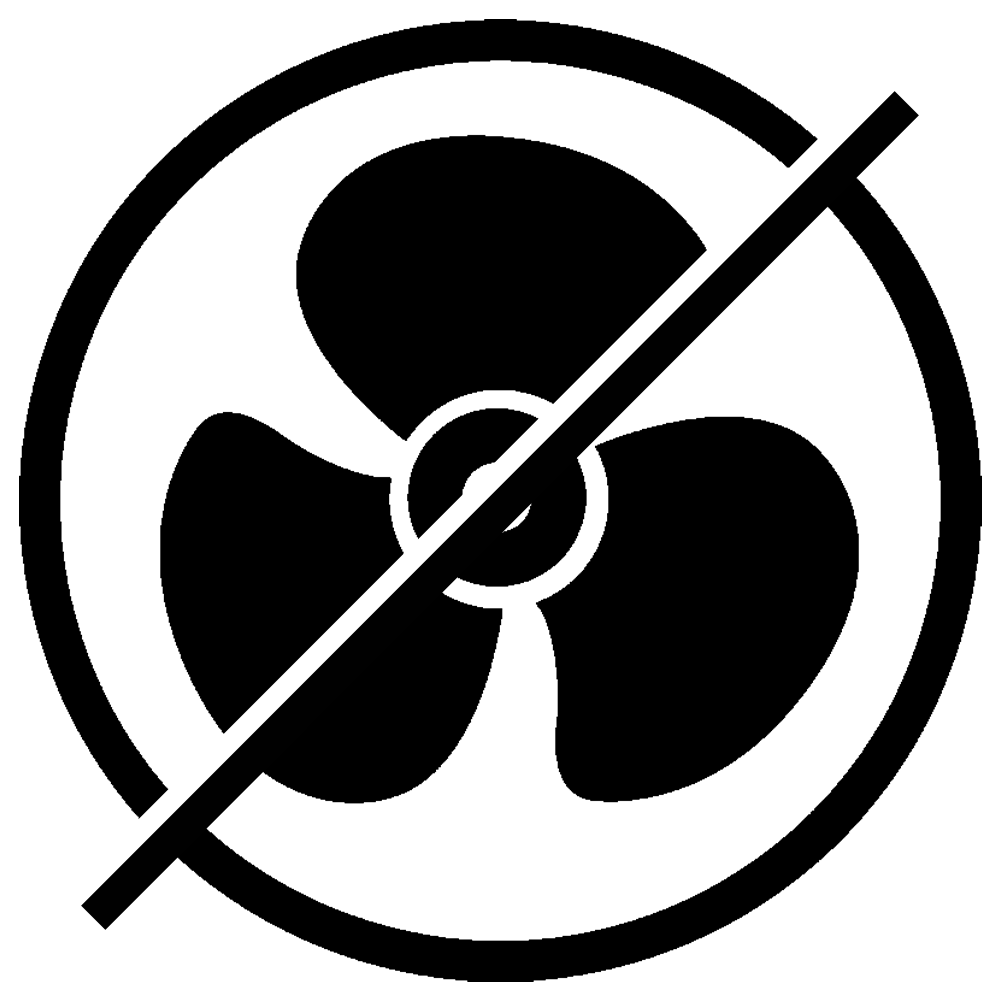
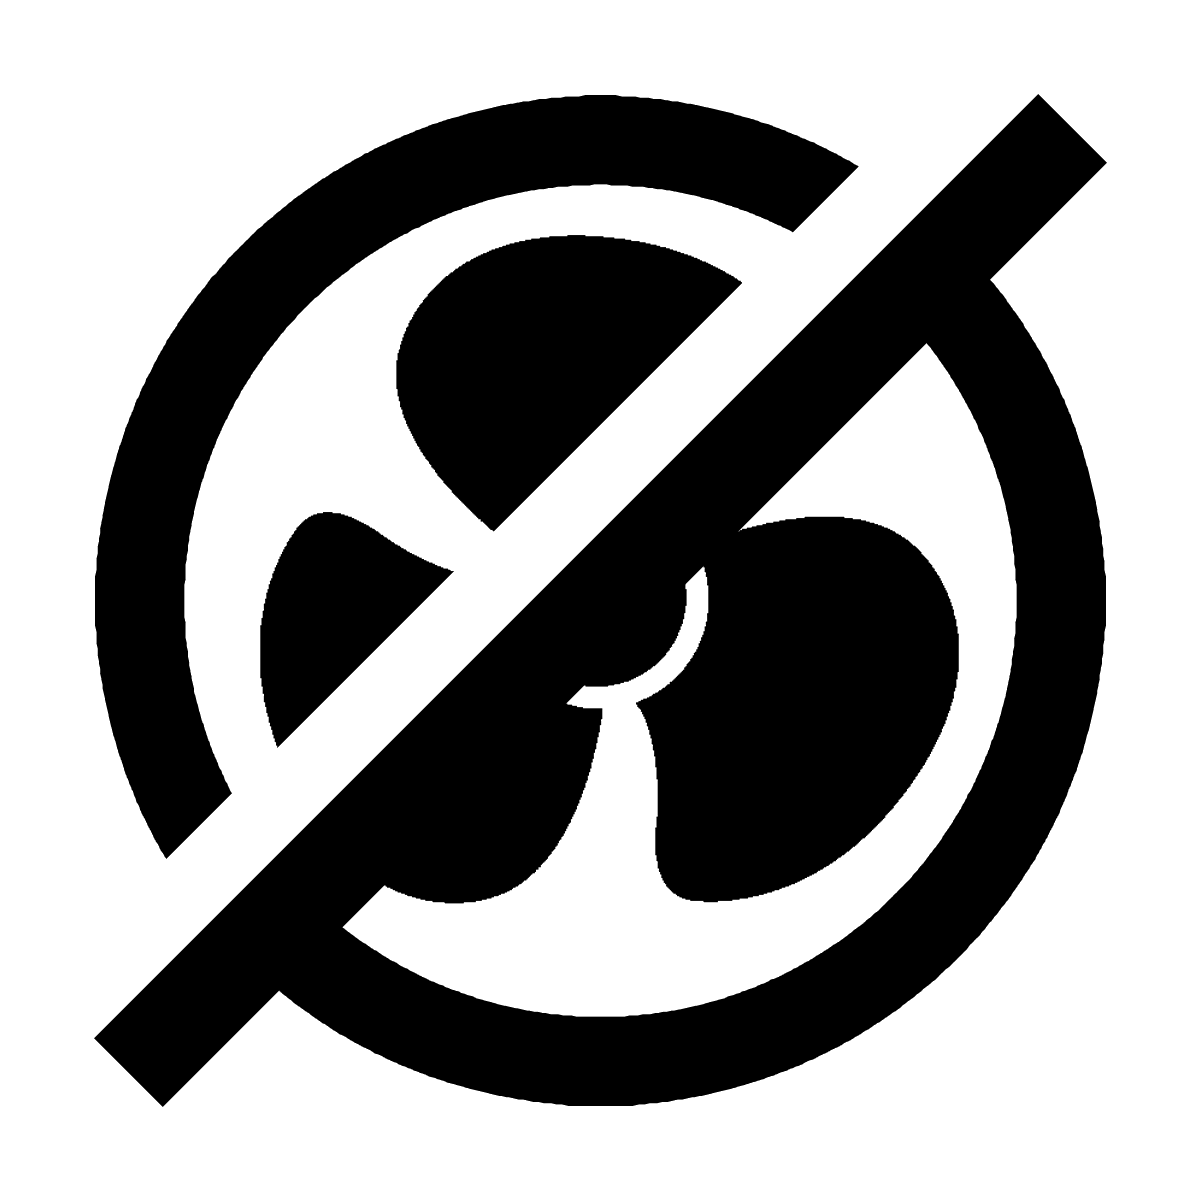
updated fan ic

diff --git a/fan.html b/fan.html
@@ -125,7 +125,7 @@
                                 <div class="squaresm shadow-sm text-center" style="cursor: pointer;" onclick="globalUpdate('fan1');">
                                     <div class="centered-element">
                                         <!-- <i class="fas fa-tint-slash lampico" id="ic-fan1"></i>   -->  
-                                        <img class="lampico" src="img/fan-off.png" id="ic-fan1" style="width: 3rem; height: 3rem">                                  
+                                        <img class="lampico fan-ic-off" src="img/fan-off.png" id="ic-fan1">                                  
                                     </div>                                    
                                 </div>
                             </div>                            
@@ -181,6 +181,20 @@
         <!-- Back to Top -->
         <a href="#" class="btn btn-lg btn-primary btn-lg-square back-to-top"><i class="bi bi-arrow-up"></i></a>
     </div>
+
+    <style>
+        .fan-ic-off {
+            width: 3rem; 
+            height: 3rem;
+            filter: invert(47%) sepia(1%) saturate(0%) hue-rotate(359deg) brightness(97%) contrast(86%);
+        }
+
+        .fan-ic-on {
+            width: 3rem; 
+            height: 3rem;
+            filter: invert(43%) sepia(35%) saturate(3688%) hue-rotate(180deg) brightness(102%) contrast(107%);
+        }
+    </style>
 
     <!-- JavaScript Libraries -->
     <script src="https://code.jquery.com/jquery-3.4.1.min.js"></script>
